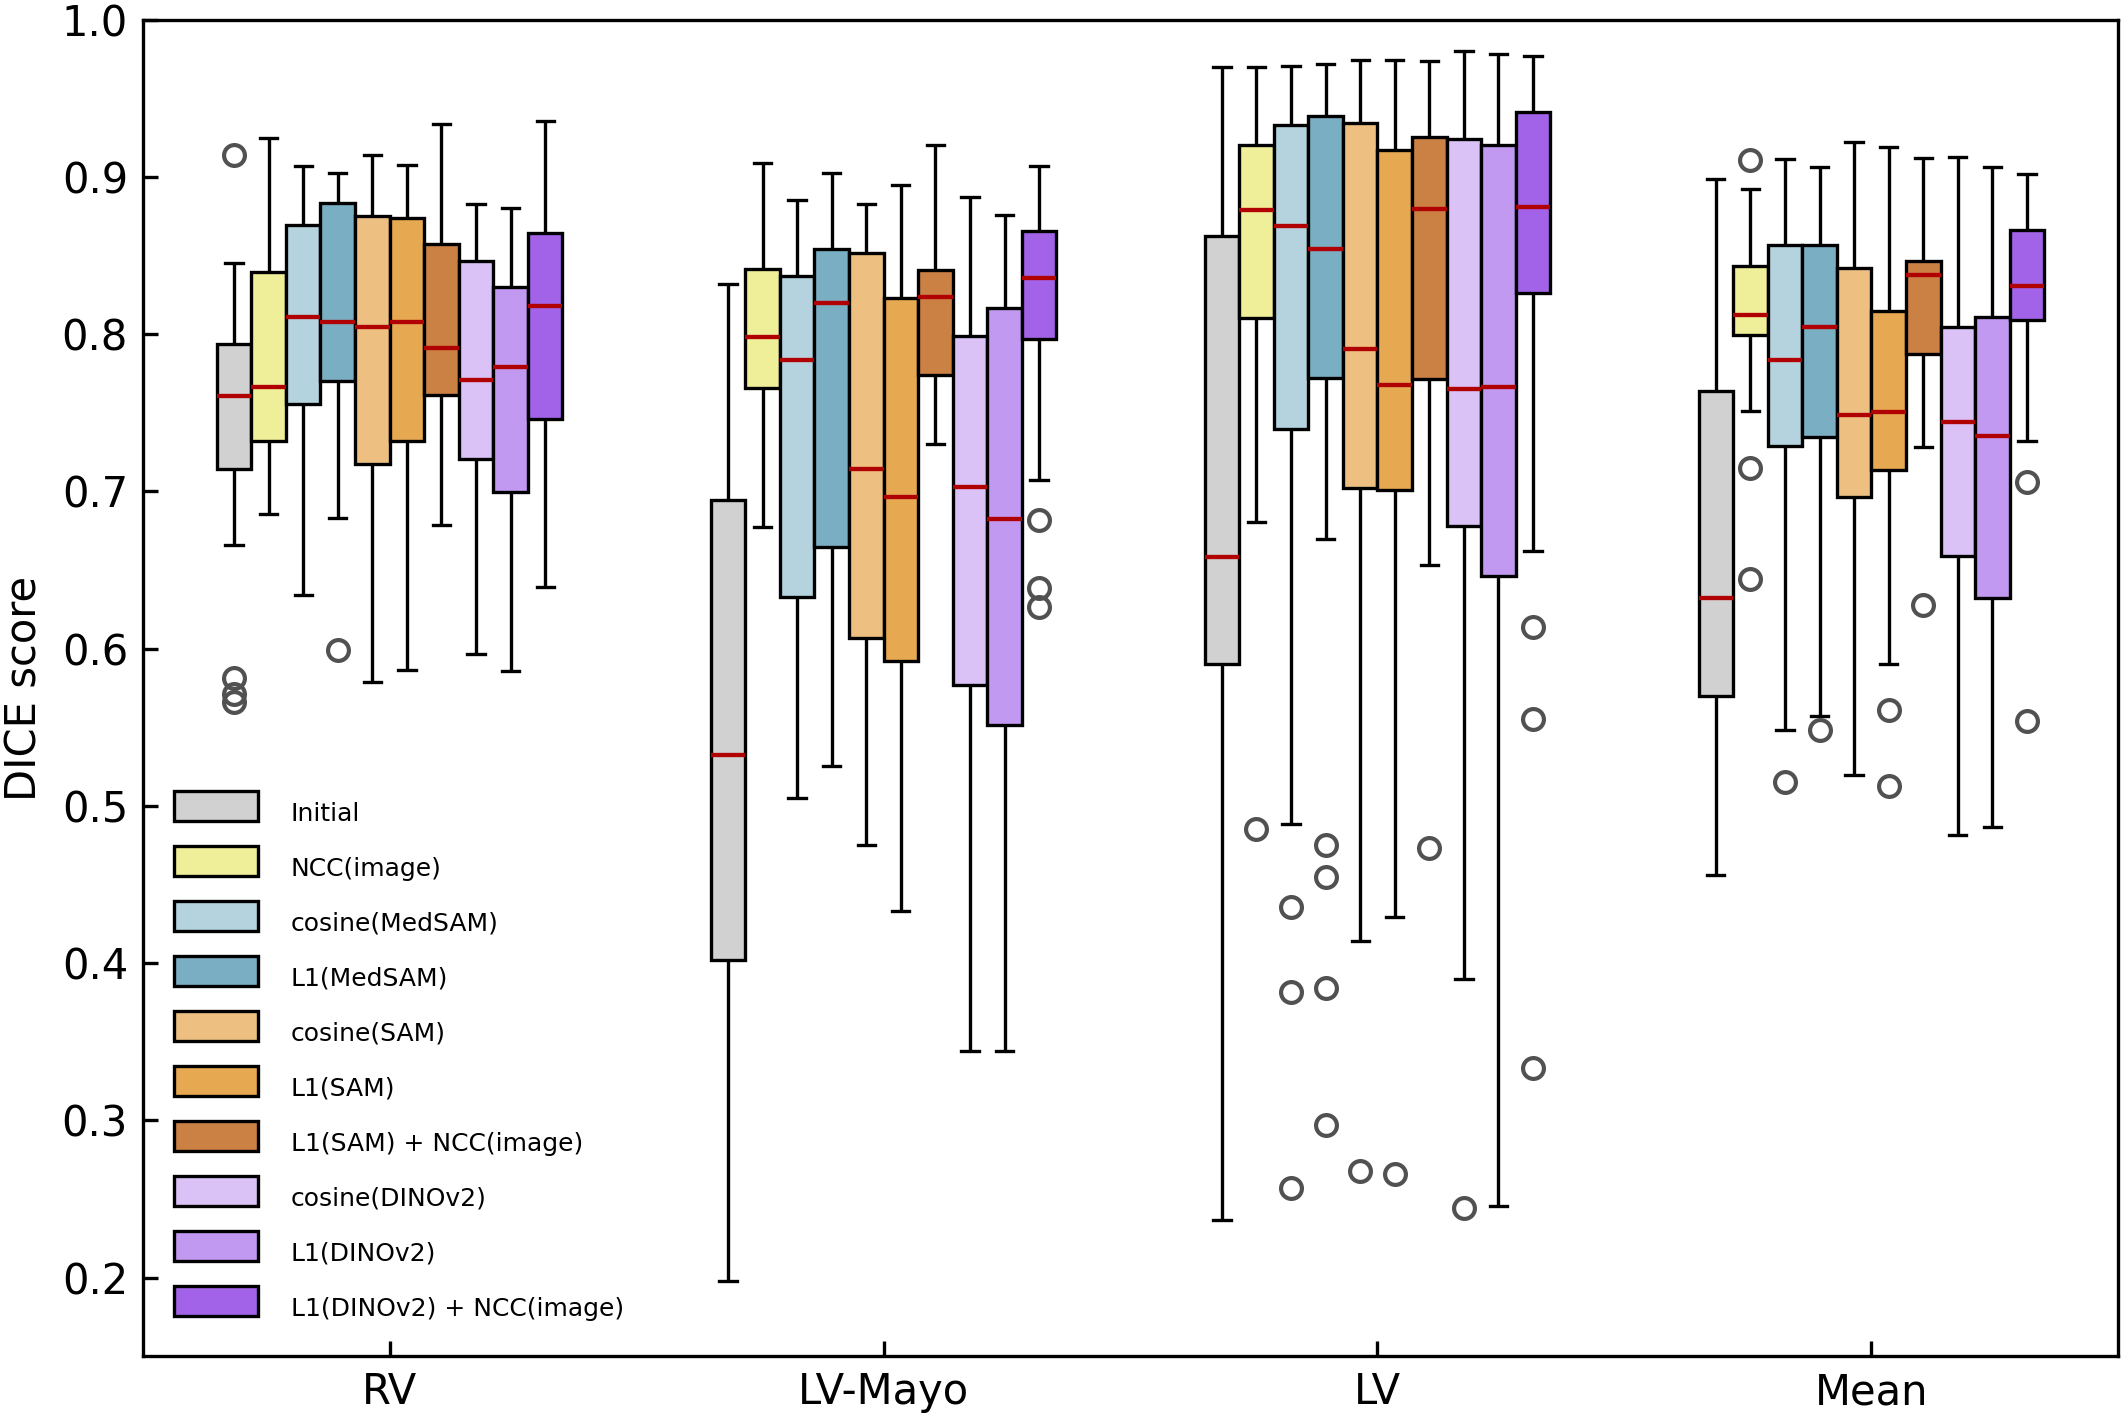
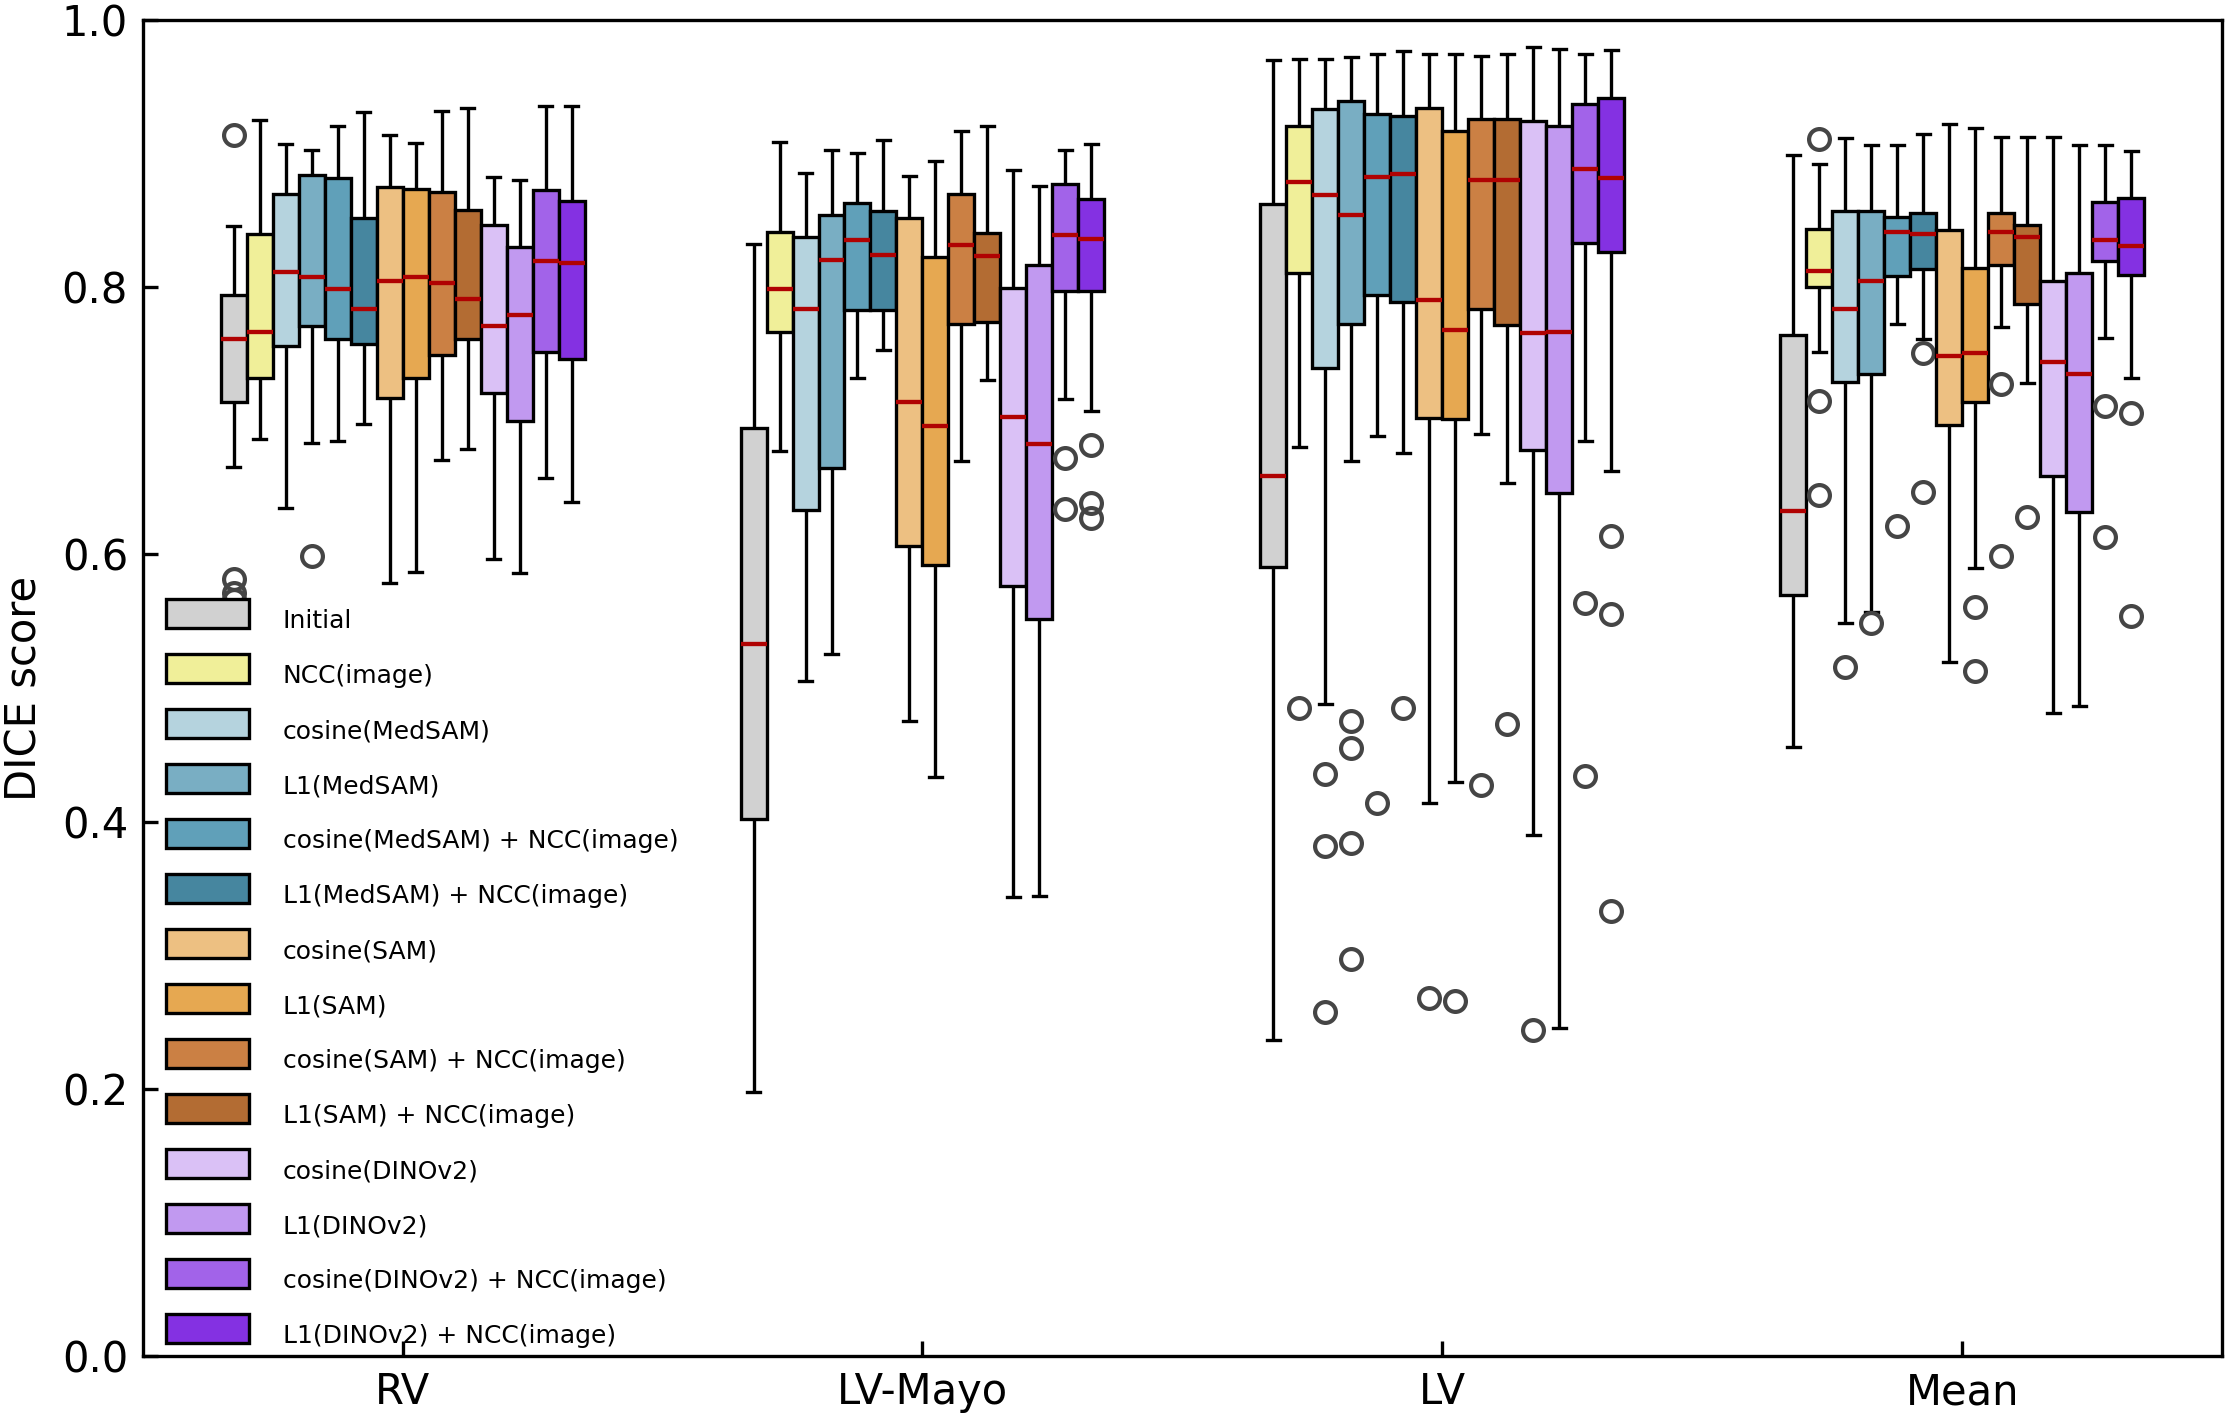
updated boxplots with more .csv

diff --git a/examples/visualisation_scripts/dice_boxplots/new_boxplots.py b/examples/visualisation_scripts/dice_boxplots/new_boxplots.py
@@ -17,6 +17,10 @@ def get_paths_and_labels():
         r'results_set2/BSplines_feat_MedSAM_1.0_COSINE__lr0.0005_reg[120]_it[1000]_sigma[[6, 6]]/results.csv'
     path_medsam_l1 = base_dir + \
         r'results_set2/BSplines_feat_MedSAM_1.0_L1__lr0.0005_reg[120]_it[1000]_sigma[[6, 6]]/results.csv'
+    path_medsam_l1_ncc = base_dir + \
+        r'results_set3/BSplines_feat_MedSAM_0.5_L1_0.5_NCC__lr0.0005_reg[120]_it[1500]_sigma[[6, 6]]/results.csv'
+    path_medsam_cosine_ncc = base_dir + \
+        r'results_set3/BSplines_feat_MedSAM_0.5_COSINE_0.5_NCC__lr0.0005_reg[120]_it[1500]_sigma[[6, 6]]/results.csv'
 
     path_sam_cosine = base_dir + \
         r'results_set2/BSplines_feat_SAM_1.0_COSINE__lr0.0005_reg[120]_it[1000]_sigma[[6, 6]]/results.csv'
@@ -24,6 +28,8 @@ def get_paths_and_labels():
         r'results_set2/BSplines_feat_SAM_1.0_L1__lr0.0005_reg[120]_it[1000]_sigma[[6, 6]]/results.csv'
     path_sam_l1_ncc = base_dir + \
         r'results_set3/BSplines_feat_SAM_0.5_L1_0.5_NCC__lr0.0005_reg[120]_it[1500]_sigma[[6, 6]]/results.csv'
+    path_sam_cosine_ncc = base_dir + \
+        r'results_set3/BSplines_feat_SAM_0.5_COSINE_0.5_NCC__lr0.0005_reg[120]_it[1500]_sigma[[6, 6]]/results.csv'
 
     path_dinov2_cosine = base_dir + \
         r'results_set2/BSplines_feat_DINOv2_1.0_COSINE__lr0.0005_reg[120]_it[1000]_sigma[[6, 6]]_dino_upsample14/results.csv'
@@ -31,27 +37,46 @@ def get_paths_and_labels():
         r'results_set2/BSplines_feat_DINOv2_1.0_L1__lr0.0005_reg[120]_it[1000]_sigma[[6, 6]]_dino_upsample14/results.csv'
     path_dinov2_l1_ncc = base_dir + \
         r'results_set3/BSplines_feat_DINOv2_0.5_L1_0.5_NCC__lr0.0005_reg[120]_it[1500]_sigma[[6, 6]]_dino_upsample14/results.csv'
+    path_dinov2_cosine_ncc = base_dir + \
+        r'results_set3/BSplines_feat_DINOv2_0.5_COSINE_0.5_NCC__lr0.0005_reg[120]_it[1500]_sigma[[6, 6]]_dino_upsample14/results.csv'
 
     #
     file_paths = [path_zero_disp,
+
                   path_ncc,
+
                   path_medsam_cosine,
                   path_medsam_l1,
+                  path_medsam_cosine_ncc,
+                  path_medsam_l1_ncc,
+
                   path_sam_cosine,
                   path_sam_l1,
+                  path_sam_cosine_ncc,
                   path_sam_l1_ncc,
+
                   path_dinov2_cosine,
                   path_dinov2_l1,
+                  path_dinov2_cosine_ncc,
                   path_dinov2_l1_ncc]
+
     names = ["Initial",
+
              "NCC(image)",
+
              "cosine(MedSAM)",
              "L1(MedSAM)",
+             "cosine(MedSAM) + NCC(image)",
+             "L1(MedSAM) + NCC(image)",
+
              "cosine(SAM)",
              "L1(SAM)",
+             "cosine(SAM) + NCC(image)",
              "L1(SAM) + NCC(image)",
+
              "cosine(DINOv2)",
              "L1(DINOv2)",
+             "cosine(DINOv2) + NCC(image)",
              "L1(DINOv2) + NCC(image)"]
 
     return file_paths, names
@@ -105,10 +130,10 @@ def plot_boxplots(file_paths, custom_labels, line_width=2, palette='Set3'):
     # Define a custom palette
     gray = ["#d1d1d1"]
     yellow = ["#fffd8a"]
-    blues = ["#aed6e5", "#6cb4d0", "#51a6c8"]
-    oranges = ["#ffc370", '#ffac38', '#e17e2d']
-    purples = ["#d9b8ff", "#c08aff", "#a04dff"]
-    custom_palette = gray + yellow + blues[:2] + oranges[:] + purples[:]
+    blues = ["#aed6e5", "#6cb4d0", "#51a6c8", "#378dae"]
+    oranges = ["#ffc370", '#ffac38', '#e17e2d', '#c96a1d']
+    purples = ["#d9b8ff", "#c08aff", "#a04dff", '#8214ff']
+    custom_palette = gray + yellow + blues + oranges + purples
 
     # Plotting function
     plt.figure(figsize=(figure_width, 6))
@@ -130,11 +155,15 @@ def plot_boxplots(file_paths, custom_labels, line_width=2, palette='Set3'):
                               "linewidth": line_width*box_line_fac},
                     medianprops={"color": "#b00202", "linestyle": "-",
                                  "linewidth": line_width*box_line_fac * 1.3})
-    g.legend.set_bbox_to_anchor((0.3, 0.24))
+    g.legend.set_bbox_to_anchor((0.31, 0.295))
     g.legend.set_title('')
     plt.setp(g._legend.get_texts(), fontsize=6)
+    legend = g._legend
+    legend.handletextpad = 0.5  # Space between legend handle and text
+    legend.labelspacing = 0.1  # Vertical space between legend entries
+    # legend._legend_box.align = "left"
 
-    plt.ylim(0.15, 1.0)
+    plt.ylim(0.0, 1.0)
 
     sns.despine(right=False,
                 left=False,
